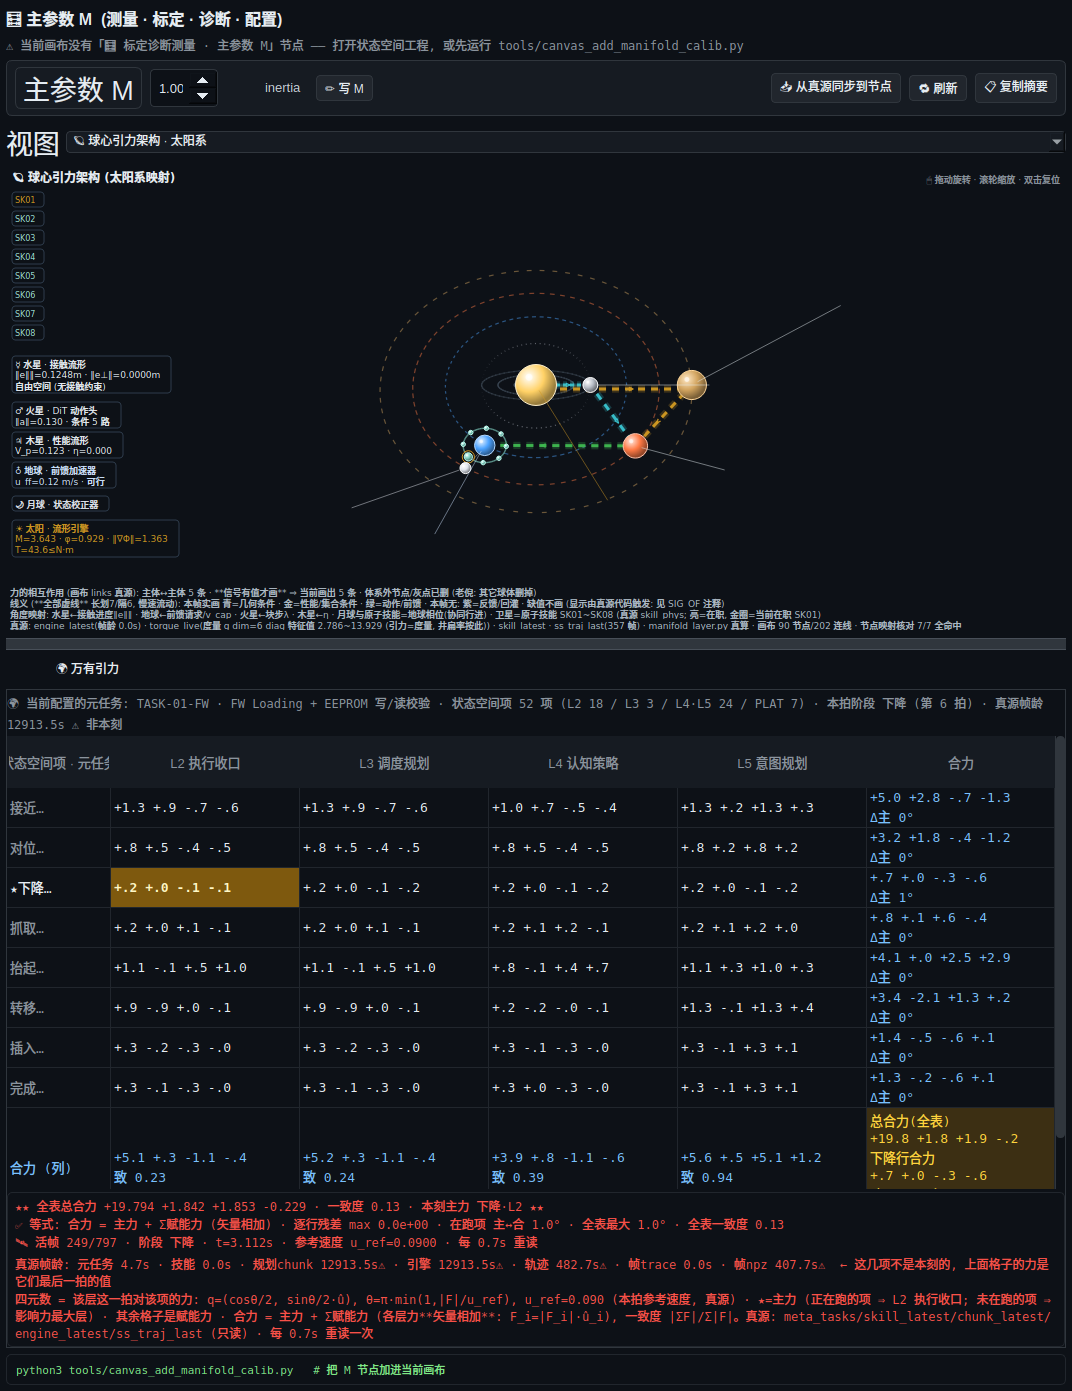
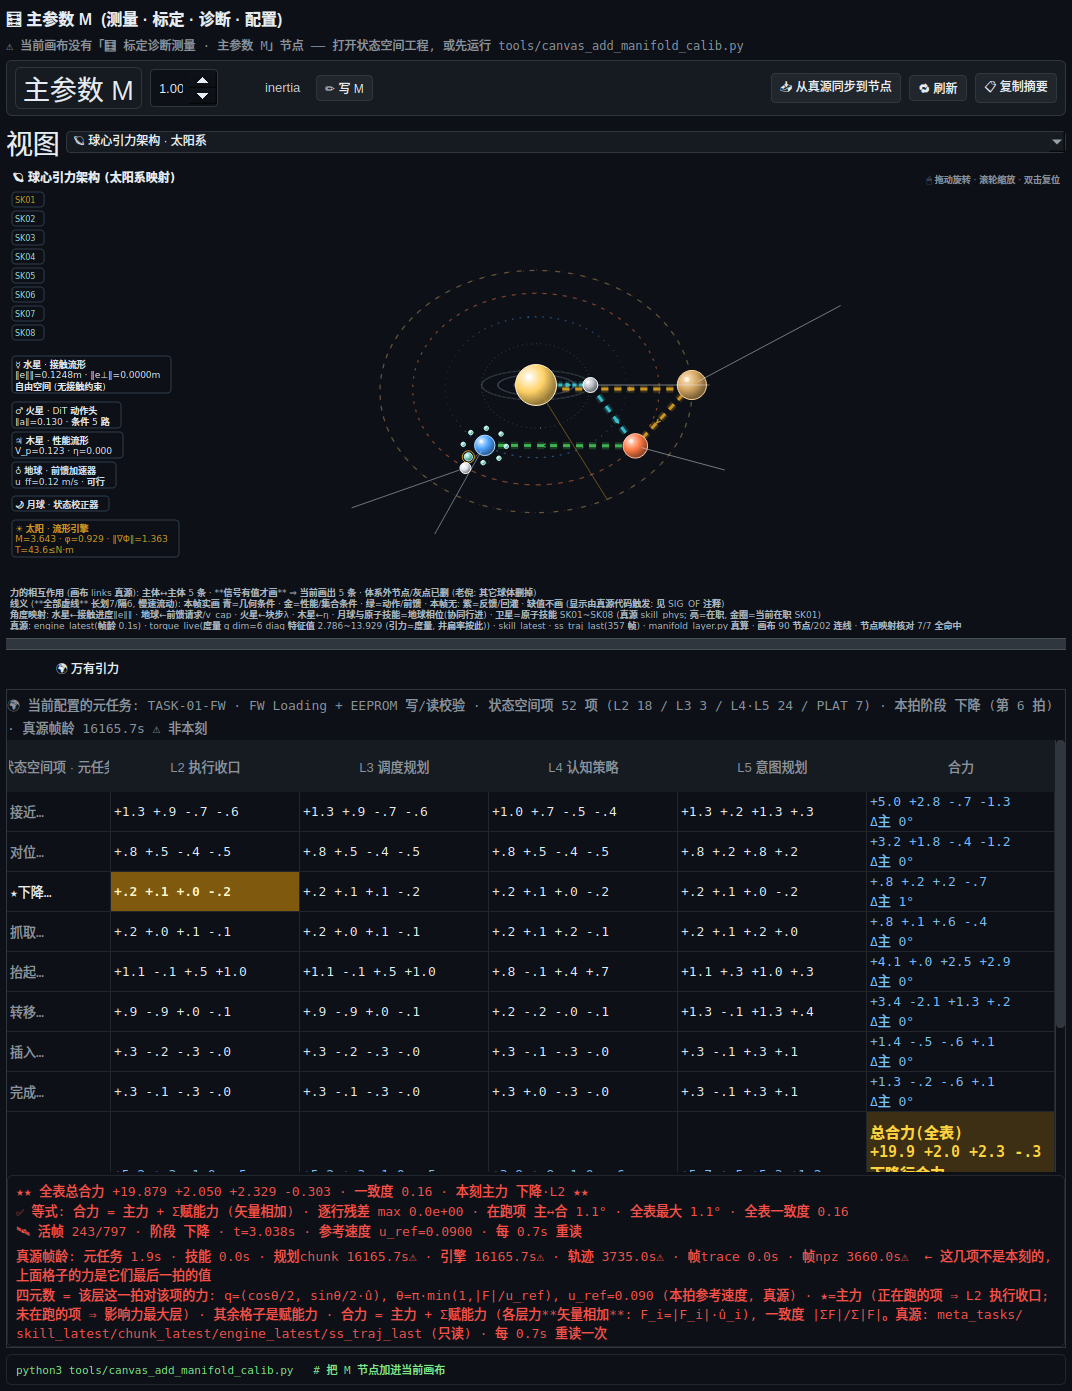
🔠 右下角那格字号自适应放大到 18px 粗体 (老倪: 「右下角的字体太小了」)
根因: 右下角那格之前跟表体同字号、而且早前为了不被 Qt 打省略号把粗体去掉了 ⇒ 6 行密排的合力数字看着最小。
改法: 按该列可用宽度**从 18px 往下找第一个放得下的字号**, 粗体 (当前 1072px 侧栏 ⇒ 18px; 表体 13px), 行高 146;
      页头/页脚 12 → 13px。
实测: 判据 34/34 (新增 ⑭b 右下角字号 ≥ 表体且加粗 = 18px vs 13px); 放大复核「最右下角那格的数字比同一行左边其它格更大、明显加粗, 无省略号」。,

diff --git a/tools/gui/gravity_table.py b/tools/gui/gravity_table.py
@@ -614,7 +614,7 @@ class GravityTableWidget(QWidget):
 
         self.lbl_head = QLabel("")
         self.lbl_head.setWordWrap(True)
-        self.lbl_head.setStyleSheet("color:#8b949e;font-size:12px;font-family:Consolas,monospace;")
+        self.lbl_head.setStyleSheet("color:#8b949e;font-size:13px;font-family:Consolas,monospace;")
         lay.addWidget(self.lbl_head)
 
         self.t = QTableWidget(0, 1 + len(LAYERS) + 1)   # 首列 + L2/L3/L4/L5 + 合力 = 6 列 (原来多出一列空列)
@@ -778,19 +778,33 @@ class GravityTableWidget(QWidget):
                                   _q_str((_ar or {}).get("q") or (0.0, 0, 0, 0), 1),
                                   coht, _dev_tot, dn_s or "?", dn_k or "?"))   # 2 位小数: 3 位在窄栏会被 Qt 打省略号
         tot.setForeground(QColor("#ffd33d"))
-        fo = QFont("Consolas")
-        fo.setPixelSize(self._fmt[1])          # 与表体同字号 (别用 10pt/11pt 混排 ⇒ 量宽与实际不一致)
-        fo.setBold(False)                      # 不粗体: 3 位小数的四元数 + 粗体会宽 ~5%, 边缘那格会被 Qt 打省略号
+        # 2026-10-16 老倪: 「右下角的字体太小了」⇒ 这一格在列宽内**尽量放大**(粗体 13~18px 自适应)
+        from PyQt5.QtGui import QFontMetrics as _QFM
+        _cw = self.t.columnWidth(self.t.columnCount() - 1) - 8
+        _big = None
+        for _px in range(18, 12, -1):
+            _f = QFont("Consolas")
+            _f.setPixelSize(_px)
+            _f.setBold(True)
+            try:
+                if max(_QFM(_f).horizontalAdvance(_l) for _l in tot.text().split("\n")) <= _cw:
+                    _big = _f
+                    break
+            except Exception:                                                    # noqa: BLE001
+                break
+        fo = _big or QFont("Consolas")
+        if _big is None:
+            fo.setPixelSize(self._fmt[1])
         tot.setFont(fo)
         tot.setBackground(QColor(187, 128, 9, 70))
         tot.setToolTip("总合力(全表) = 所有格子的力矢量相加\n本刻行合力 = 在跑的那一项那一行的合力 = 主力 + Σ赋能力\nΔ主 = 该合力与主力的夹角\n"
                        "全精度: 总合力 %s · 本刻行合力 %s" % (_fmt_q(qt), _fmt_q((_ar or {}).get("q") or (1.0, 0, 0, 0))))
         self.t.setItem(li, 1 + len(LAYERS), tot)
-        self.t.setRowHeight(li, 120)   # 右下角那格: 全表总合力 + 本刻行合力 + 一致度/夹角/主力                    # 右下角那格内容多 (总合力+一致度+主力), 单独给高一点
+        self.t.setRowHeight(li, 146)   # 右下角字号放大到 ~16px ⇒ 行高跟上   # 右下角那格: 全表总合力 + 本刻行合力 + 一致度/夹角/主力                    # 右下角那格内容多 (总合力+一致度+主力), 单独给高一点
 
         stale = [k for k, v in f.age.items() if v is not None and v > 60]
         _age_col = "#f85149" if stale else "#7ee787"
-        self.lbl_foot.setStyleSheet("color:%s;font-size:12px;font-family:Consolas,monospace;"
+        self.lbl_foot.setStyleSheet("color:%s;font-size:13px;font-family:Consolas,monospace;"
                                     "background:#0d1117;border:1px solid #21262d;border-radius:5px;padding:4px;" % _age_col)
         # 🔴 这一行是**保证看得见**的 (表若被窗口裁了, 右下角总合力也要在页面上有一份; 老倪拿画面当结果)
         _res_max, _dev_max, _coh_all = f.equation()

diff --git a/tools/verify_gravity_table.py b/tools/verify_gravity_table.py
@@ -317,6 +317,10 @@ def main():
     _cnr = _t.item(_t.rowCount() - 1, _t.columnCount() - 1)
     _ctxt = _cnr.text() if _cnr else ""
     _need = ["总合力", "行合力", "主 "]
+    _cf = _cnr.font() if _cnr else None
+    ck("⑭b 右下角字号 ≥ 表体且加粗 (老倪: 「右下角的字体太小了」)",
+       _cf is not None and _cf.pixelSize() >= _w._fmt[1] and _cf.bold(),
+       "右下角 %dpx 粗体 vs 表体 %dpx" % (_cf.pixelSize(), _w._fmt[1]) if _cf else "没有右下角格")
     ck("⑭ 右下角 = 总合力 + 本刻行合力 + 主力 (不是把主力当合力)", all(w in _ctxt for w in _need) and "Δ主" in _ctxt,
        "右下角逐行: " + " | ".join(_ctxt.split("\n")))
     _bad_tier = [x for x in _tiers if not x[4]]
